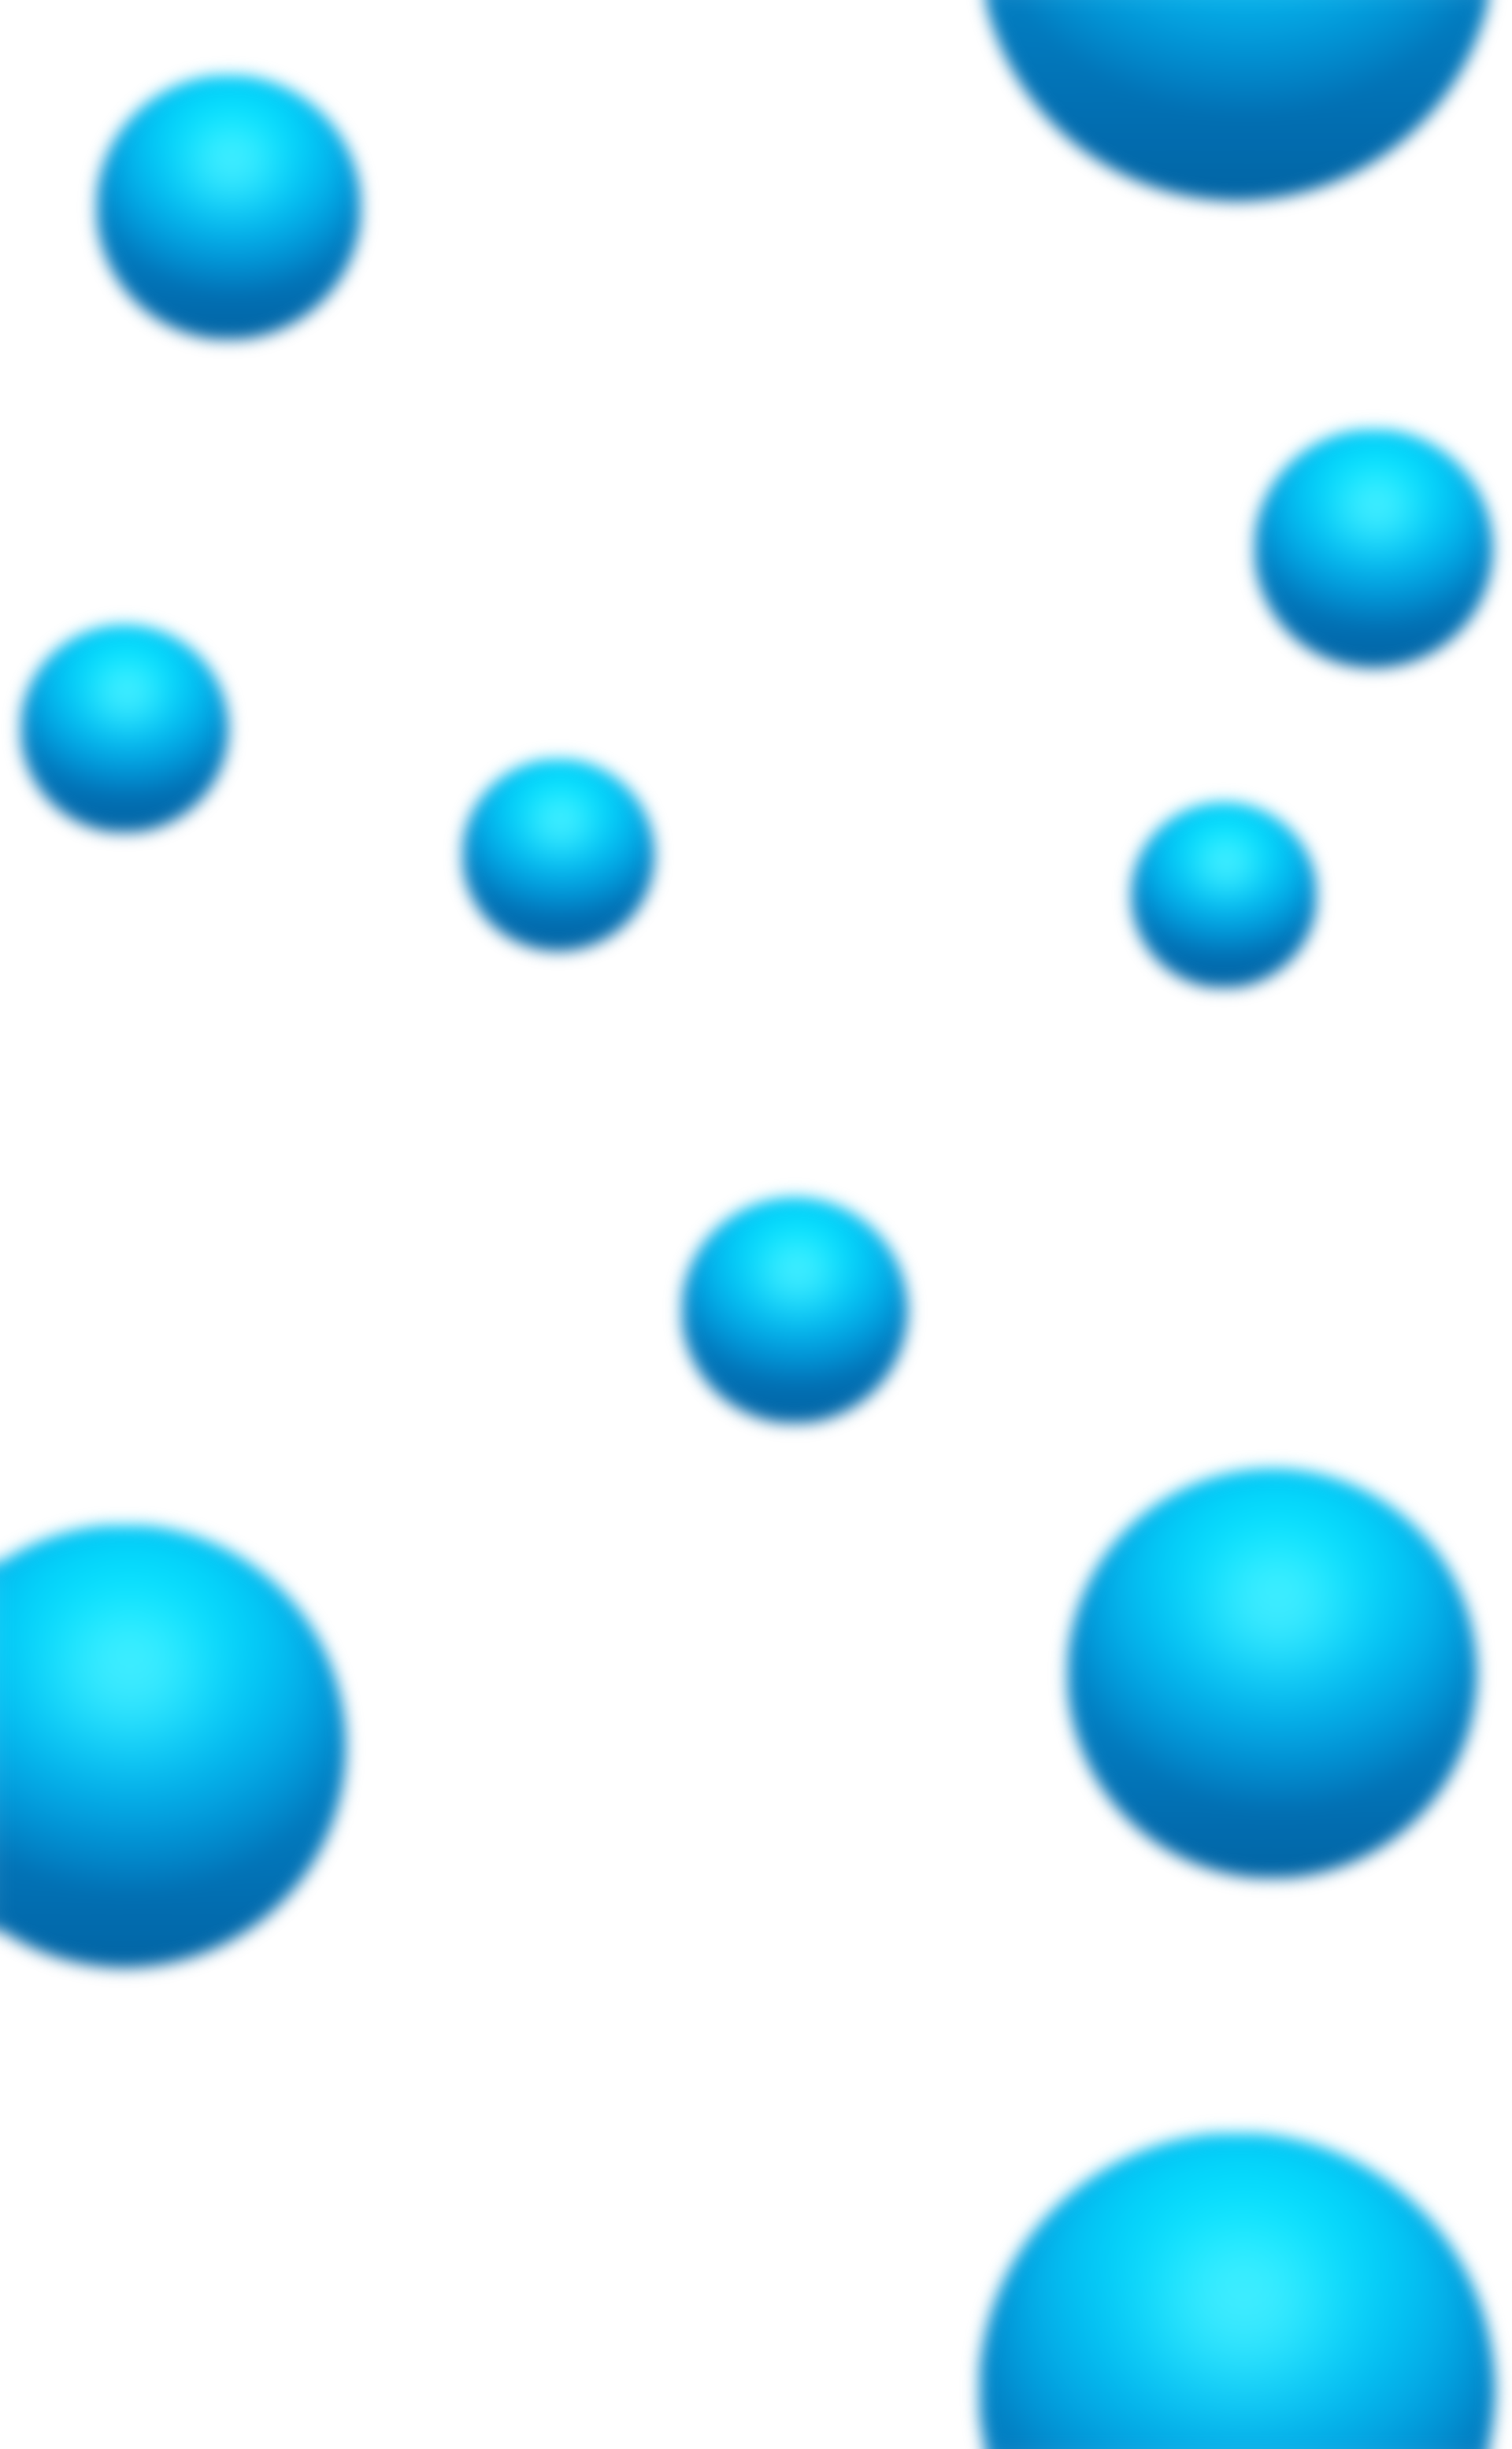
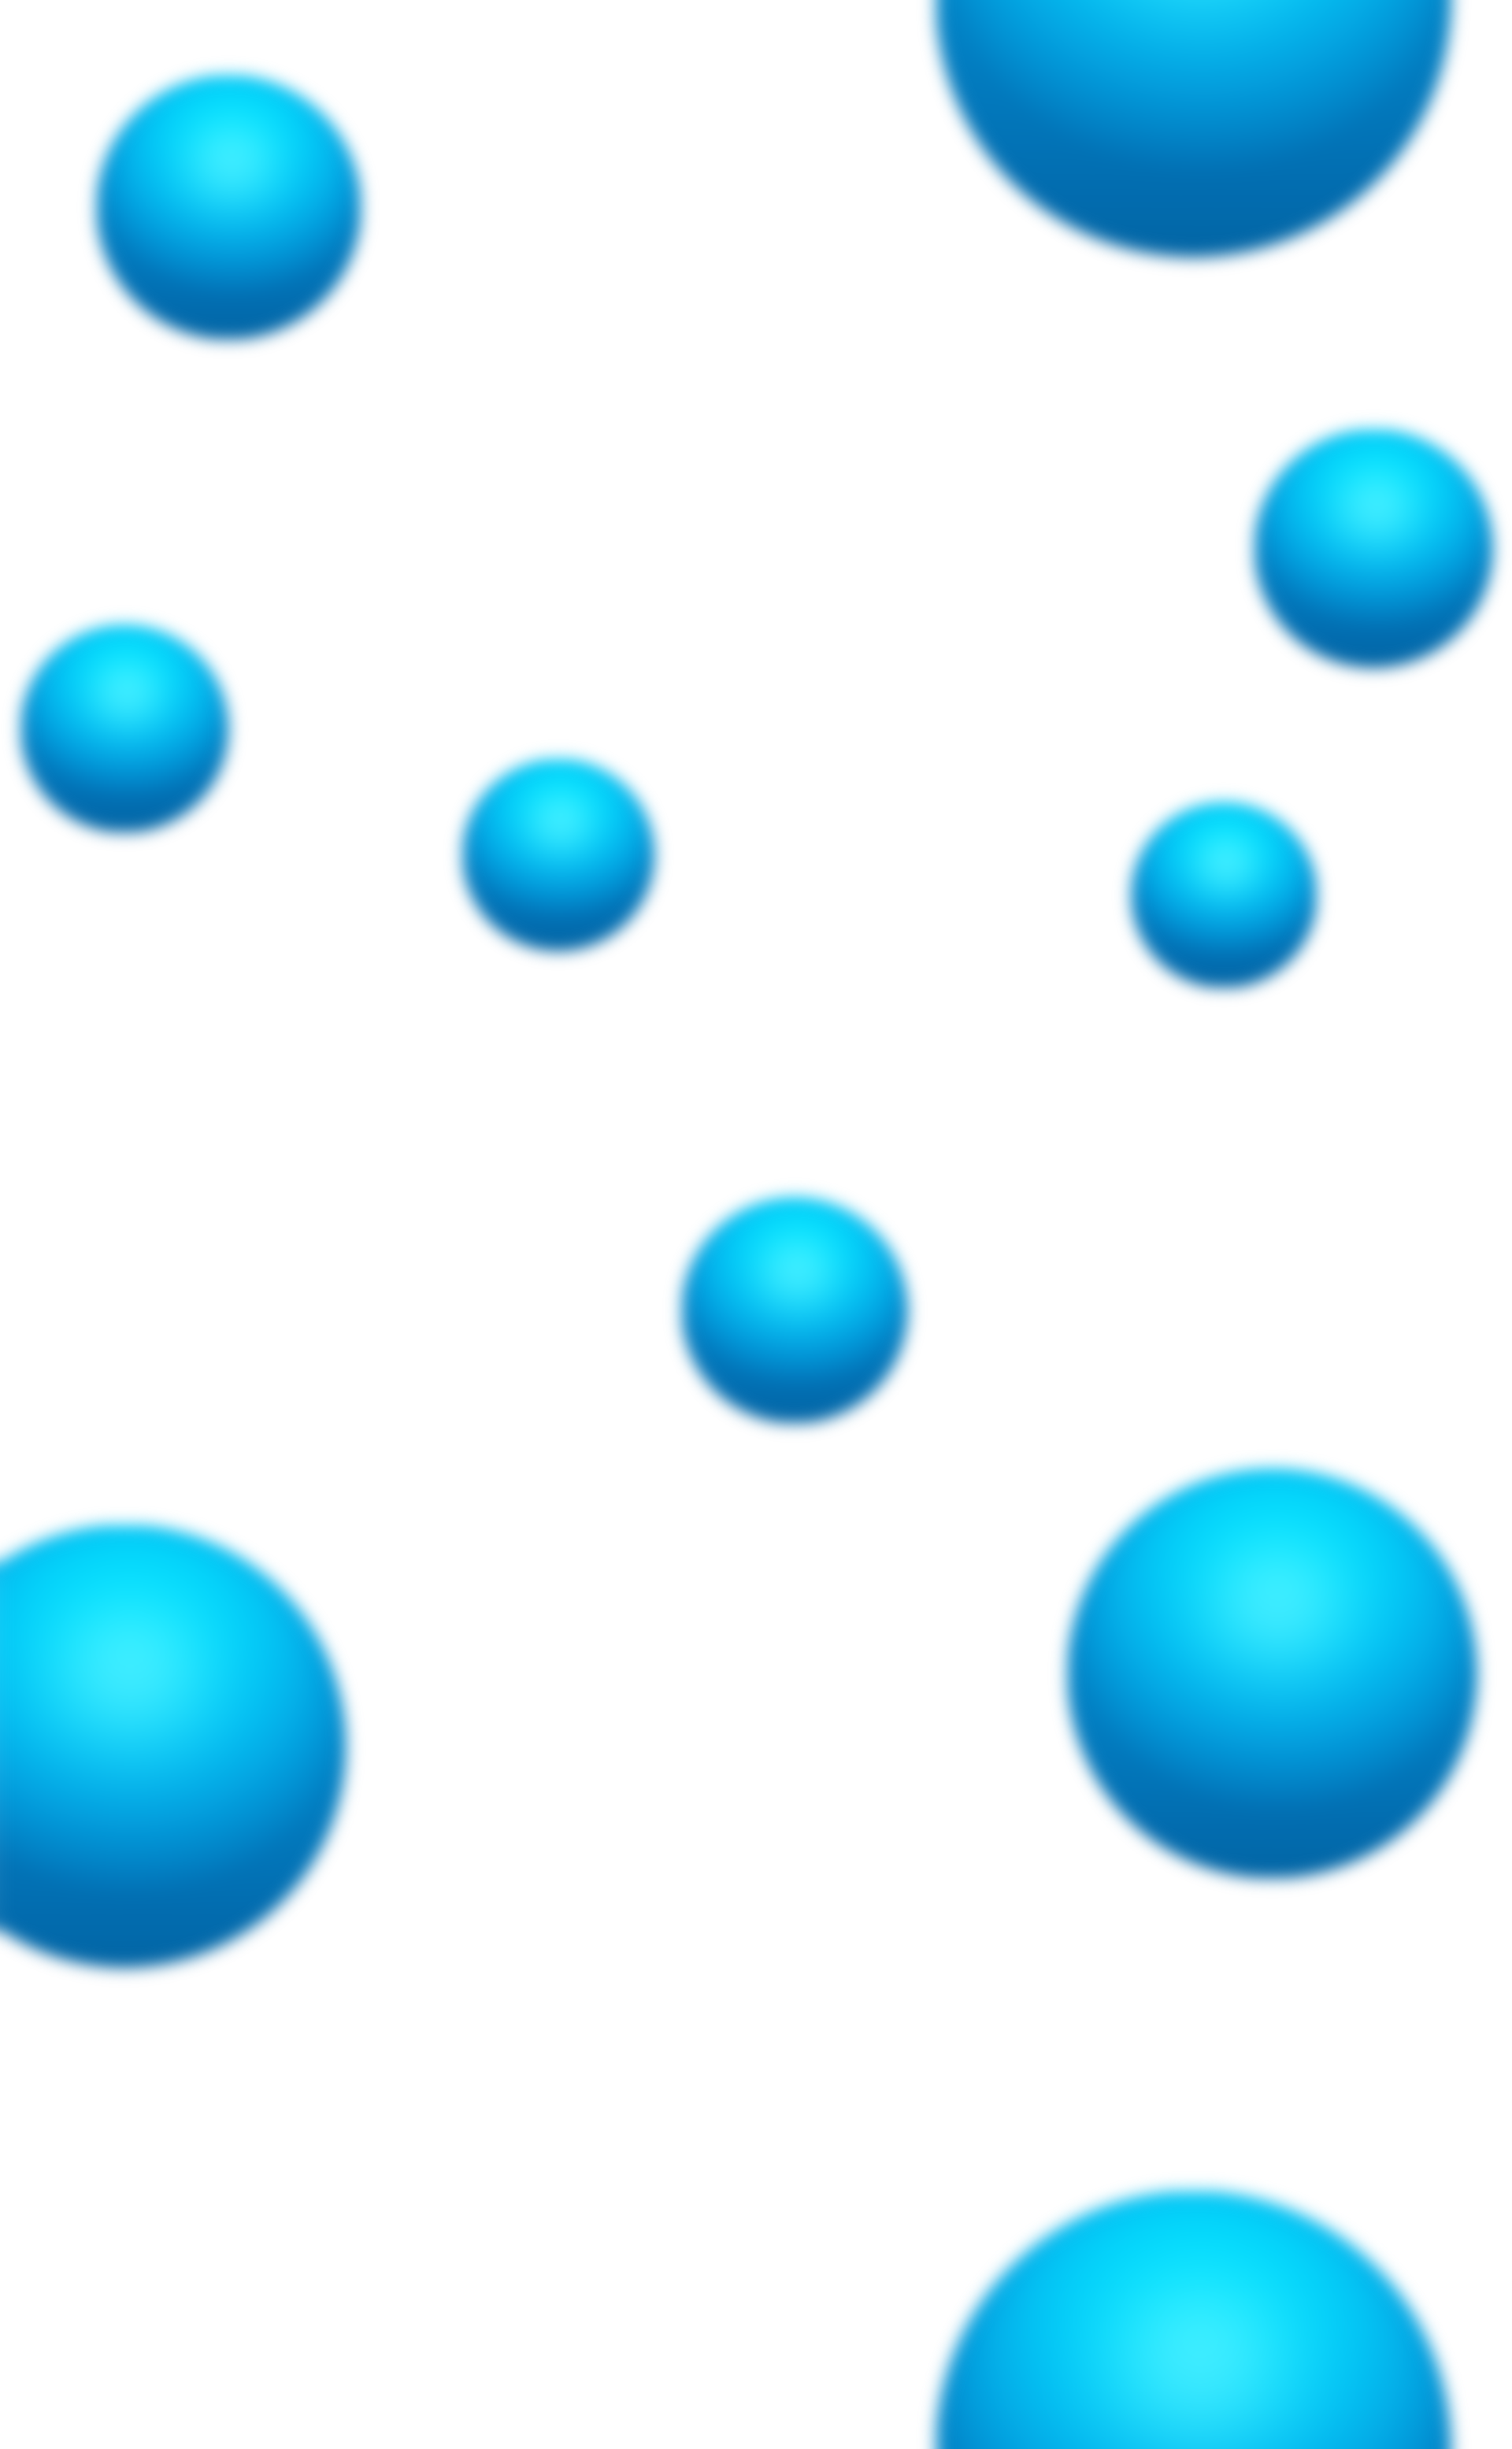
bubble transition

Changed region(s): [[0.5938, 0.8421, 1.0, 1.0], [0.5938, 0.0, 1.0, 0.1248]]

diff --git a/css/style.css b/css/style.css
@@ -54,7 +54,7 @@ body {
   width: 100%;
   height: 100%;
   z-index: 1;
-  transition: all 1s cubic-bezier(0, 1.28, 0.36, 2.08);
+  transition: all 1s cubic-bezier(0, 1, 0.5, 3);
 }
 
 .bubble__body--top {
@@ -66,7 +66,7 @@ body {
   width: 100%;
   height: 100%;
   z-index: 1;
-  transition: all 0.8s cubic-bezier(0, 1.28, 0.36, 2.08);
+  transition: all 1s cubic-bezier(0, 1.5, 0.5, 5);
 }
 
 /* ---------------------------------------------Preloader --------------------------------------------- */
